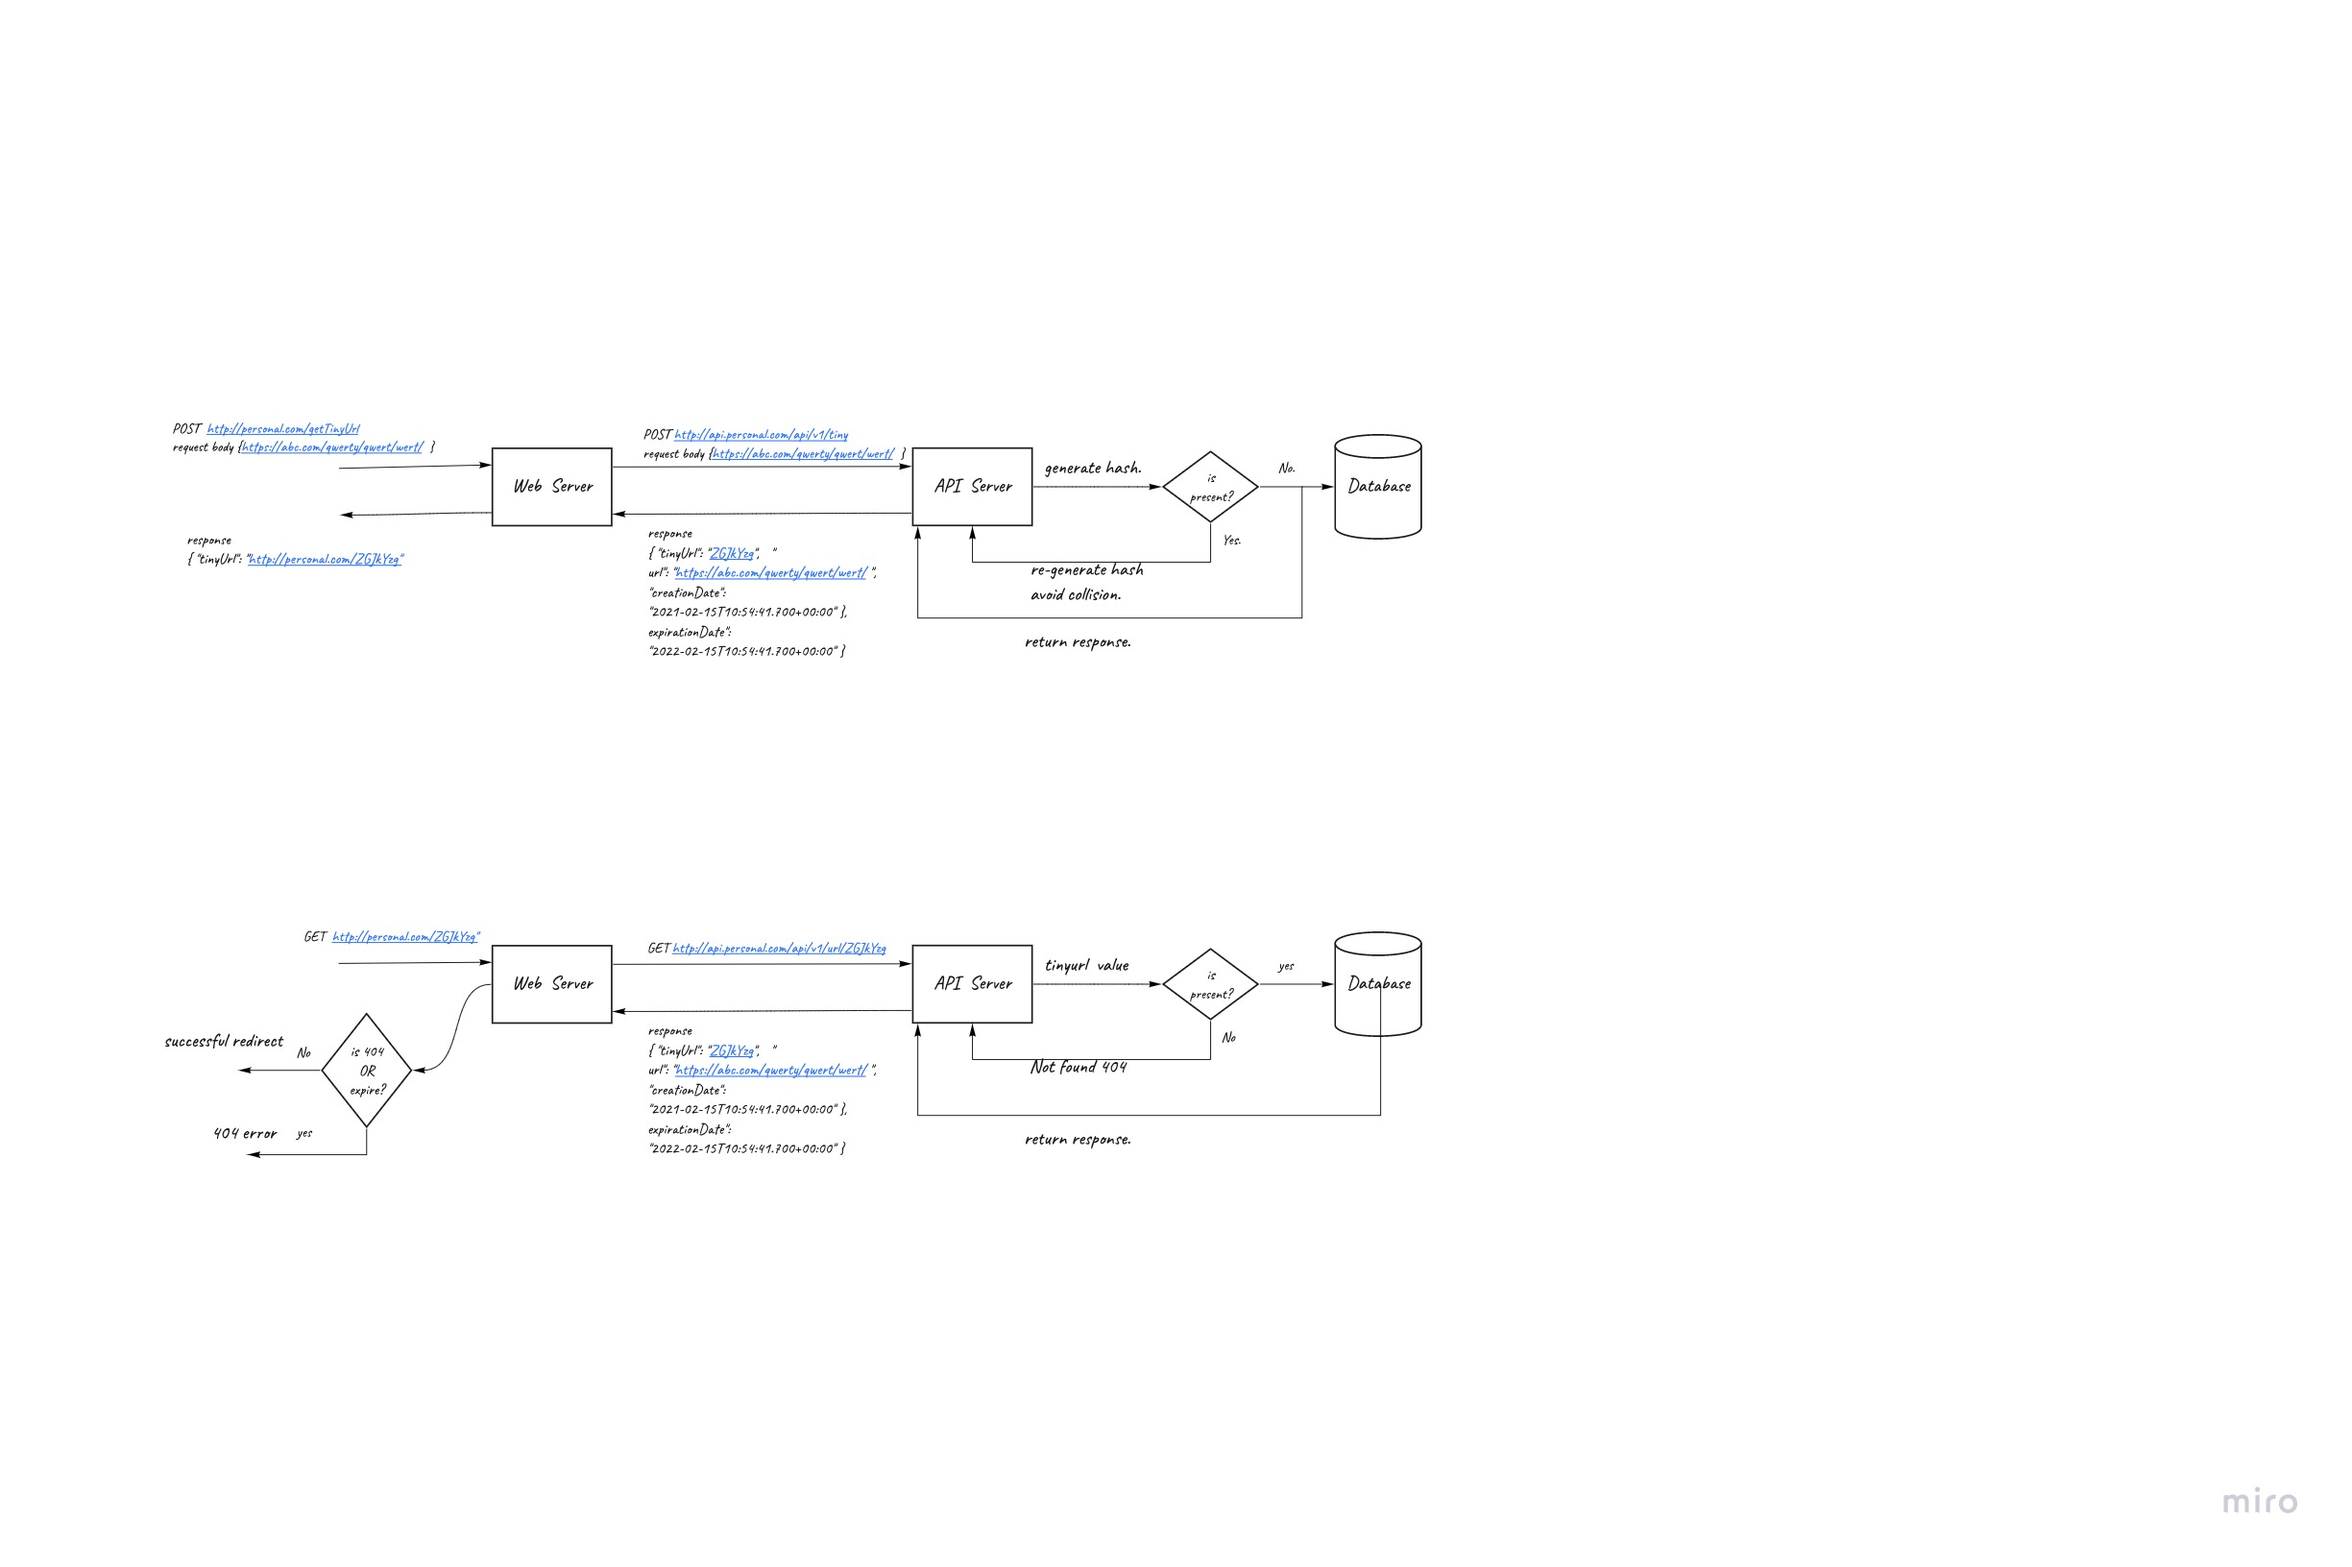
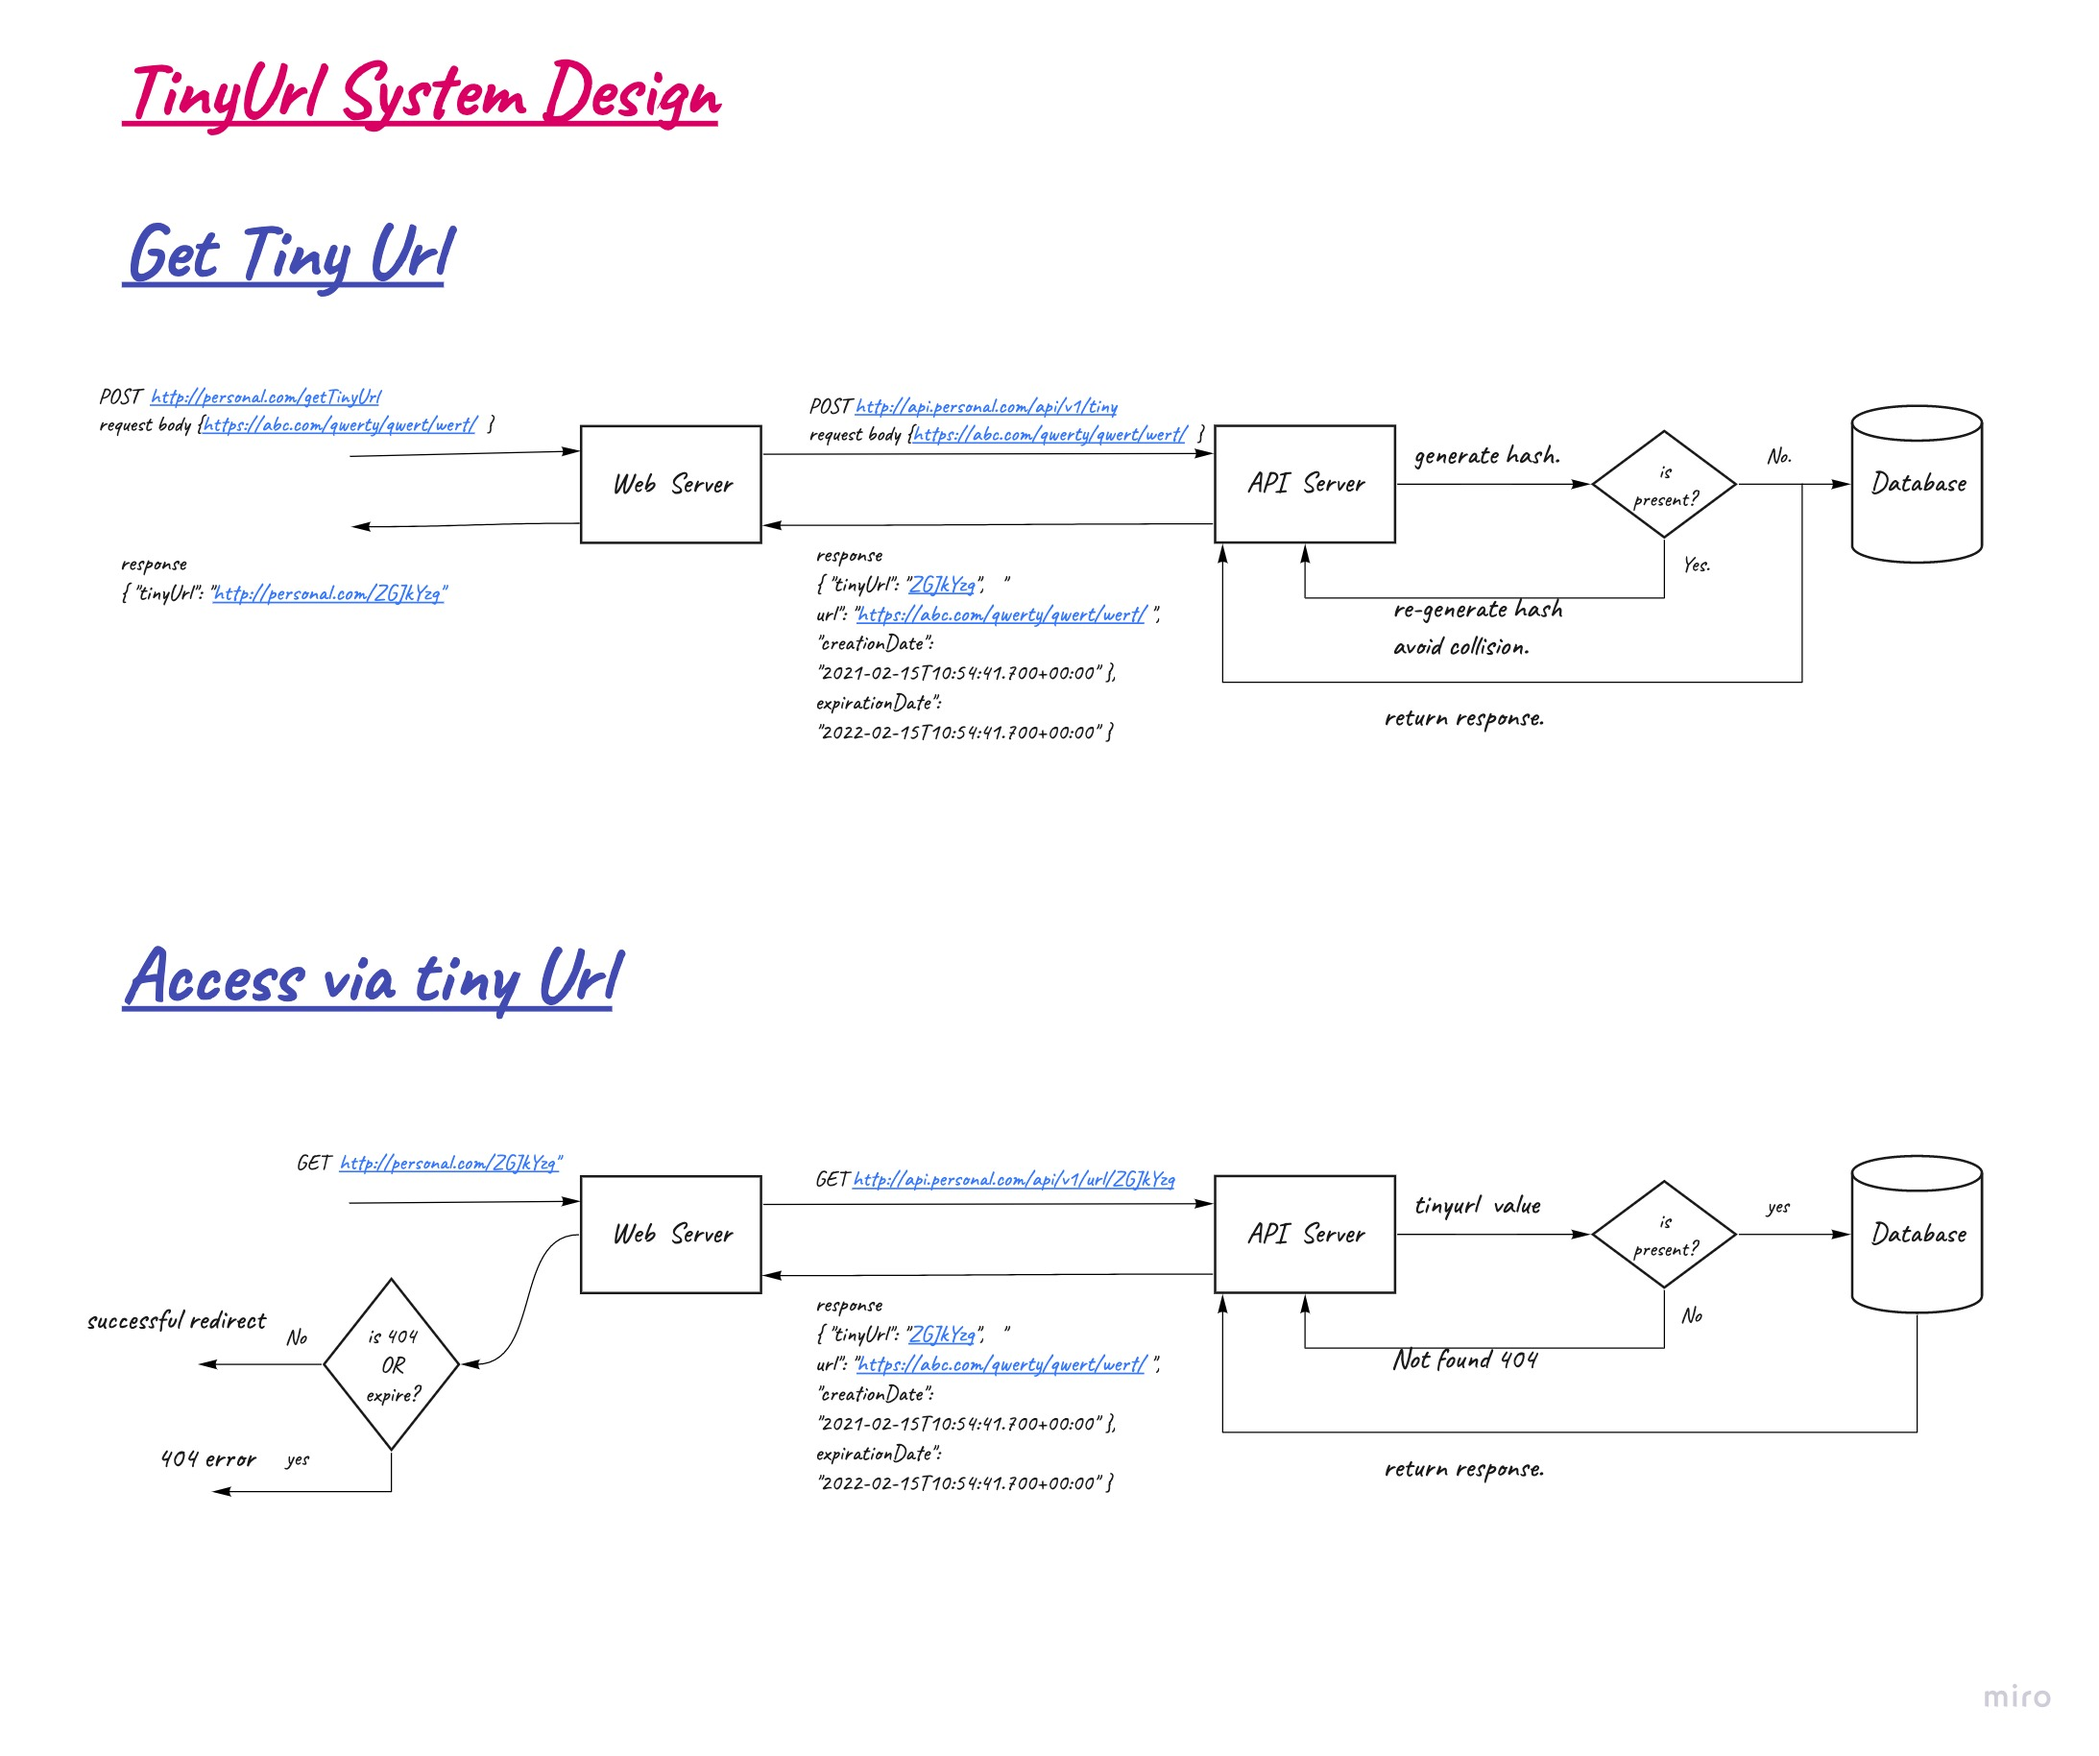
add correct size image for SD and link change

diff --git a/README.md b/README.md
@@ -1,3 +1,3 @@
 # Tinyurl
 ## TinyURL is a URL shortening web service, which provides short aliases for redirection of long URLs.
-![Tiny Url System design](https://github.com/sanjaychgupta/tinyurl/tree/main/blob/TinyUrl_System.jpg?raw=true)
+![Tiny Url System design](https://github.com/sanjaychgupta/tinyurl/blob/main/Blob/TinyUrl_System.jpg?raw=true)
